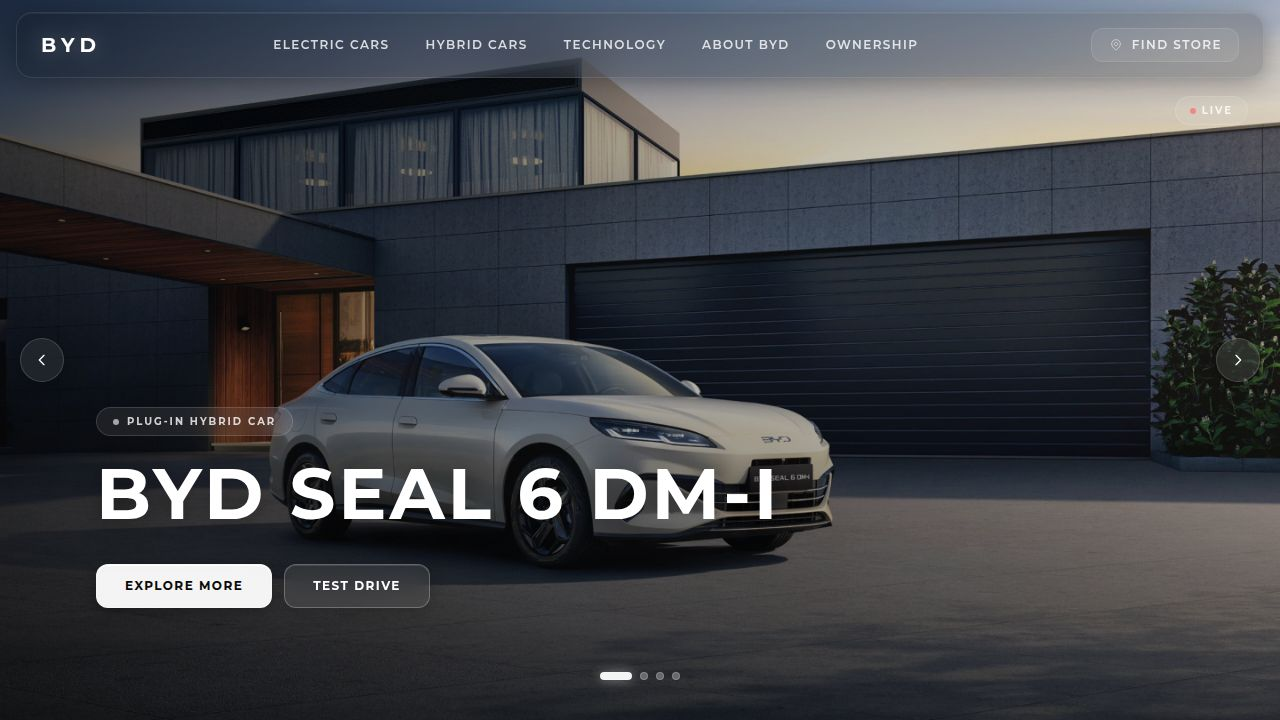
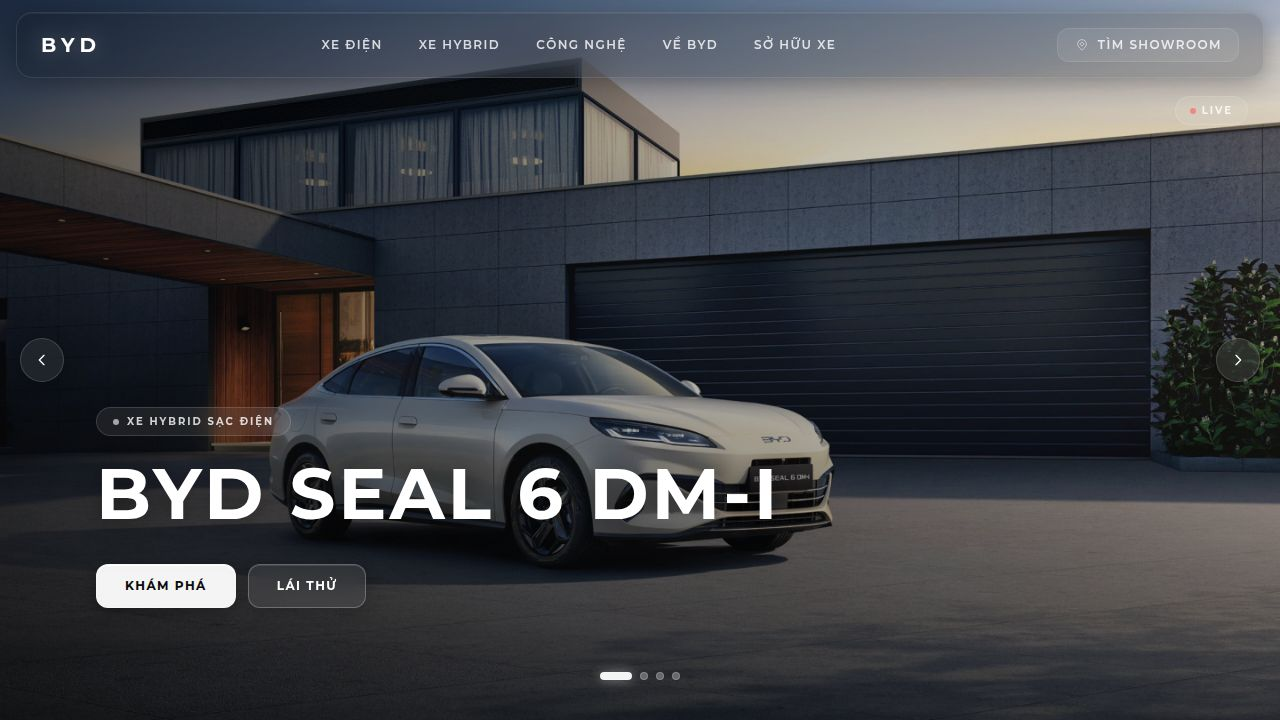
Fix image loading and improve image variety across car pages
Updates the Img component to correctly reset error states and reset the image source when it changes. Adjusts fallback image logic for various car details sections to prevent image repetition and ensure proper image display.

Replit-Commit-Author: Agent
Replit-Commit-Session-Id: 9fa59e98-2046-440d-8f23-9013b36c326d
Replit-Commit-Checkpoint-Type: full_checkpoint
Replit-Commit-Event-Id: 68c7336d-a911-40cf-b951-be302af2ab53
Replit-Commit-Screenshot-Url: https://storage.googleapis.com/screenshot-production-us-central1/b852bd79-56ae-429c-aad9-383be4c1f802/9fa59e98-2046-440d-8f23-9013b36c326d/aDN6Veh
Replit-Helium-Checkpoint-Created: true

diff --git a/artifacts/byd-eu/src/pages/GenericCarPage.tsx b/artifacts/byd-eu/src/pages/GenericCarPage.tsx
@@ -17,6 +17,7 @@ type CarData = {
 /* ─── Placeholder / lazy image ─── */
 function Img({ src, alt, className, style }: { src?: string; alt: string; className?: string; style?: React.CSSProperties }) {
   const [err, setErr] = useState(false);
+  useEffect(() => { setErr(false); }, [src]);
   if (!src || err) {
     return (
       <div className={`flex items-center justify-center ${className ?? ""}`} style={{ background: "linear-gradient(135deg,#181818 0%,#111 100%)", ...style }}>
@@ -24,7 +25,7 @@ function Img({ src, alt, className, style }: { src?: string; alt: string; classN
       </div>
     );
   }
-  return <img src={src} alt={alt} className={className} style={style} onError={() => setErr(true)} />;
+  return <img key={src} src={src} alt={alt} className={className} style={style} onError={() => setErr(true)} />;
 }
 
 /* ─── Animated counter ─── */
@@ -269,7 +270,7 @@ function buildSections(car: CarData) {
         body: isHybrid
           ? `Với hơn ${battery ?? "15 kWh"} dung lượng pin cho chế độ thuần điện và động cơ xăng cho những hành trình dài, ${car.name} đạt phạm vi tổng hơn ${range_} — thực sự xóa bỏ lo lắng về cạn pin.`
           : `Pin Blade ${battery} cung cấp năng lượng cho ${car.name} lên đến ${range_} mỗi lần sạc đầy. Sạc DC nhanh ${dcCharge} giúp bạn tốn ít thời gian cắm sạc hơn và nhiều thời gian trên đường hơn.`,
-        img: f[1]?.img,
+        img: f[2]?.img ?? f[1]?.img,
       },
     ],
   };
@@ -296,7 +297,7 @@ function buildSections(car: CarData) {
         body: v2l && v2l !== "No"
           ? `Tính năng Vehicle-to-Load (V2L) cho phép ${car.name} cấp điện cho các thiết bị ngoài — từ thiết bị cắm trại đến nhu cầu điện khẩn cấp. Xe của bạn trở thành trạm điện di động.`
           : `Hệ thống âm thanh cao cấp ${sound} lấp đầy khoang lái bằng âm thanh phong phú và chi tiết. Được tinh chỉnh cho đặc tính âm học của nội thất ${car.name}, tạo ra trải nghiệm nghe nhạc đắm chìm.`,
-        img: car.heroImg,
+        img: f[3]?.img ?? f[0]?.img ?? car.heroImg,
       },
     ],
   };